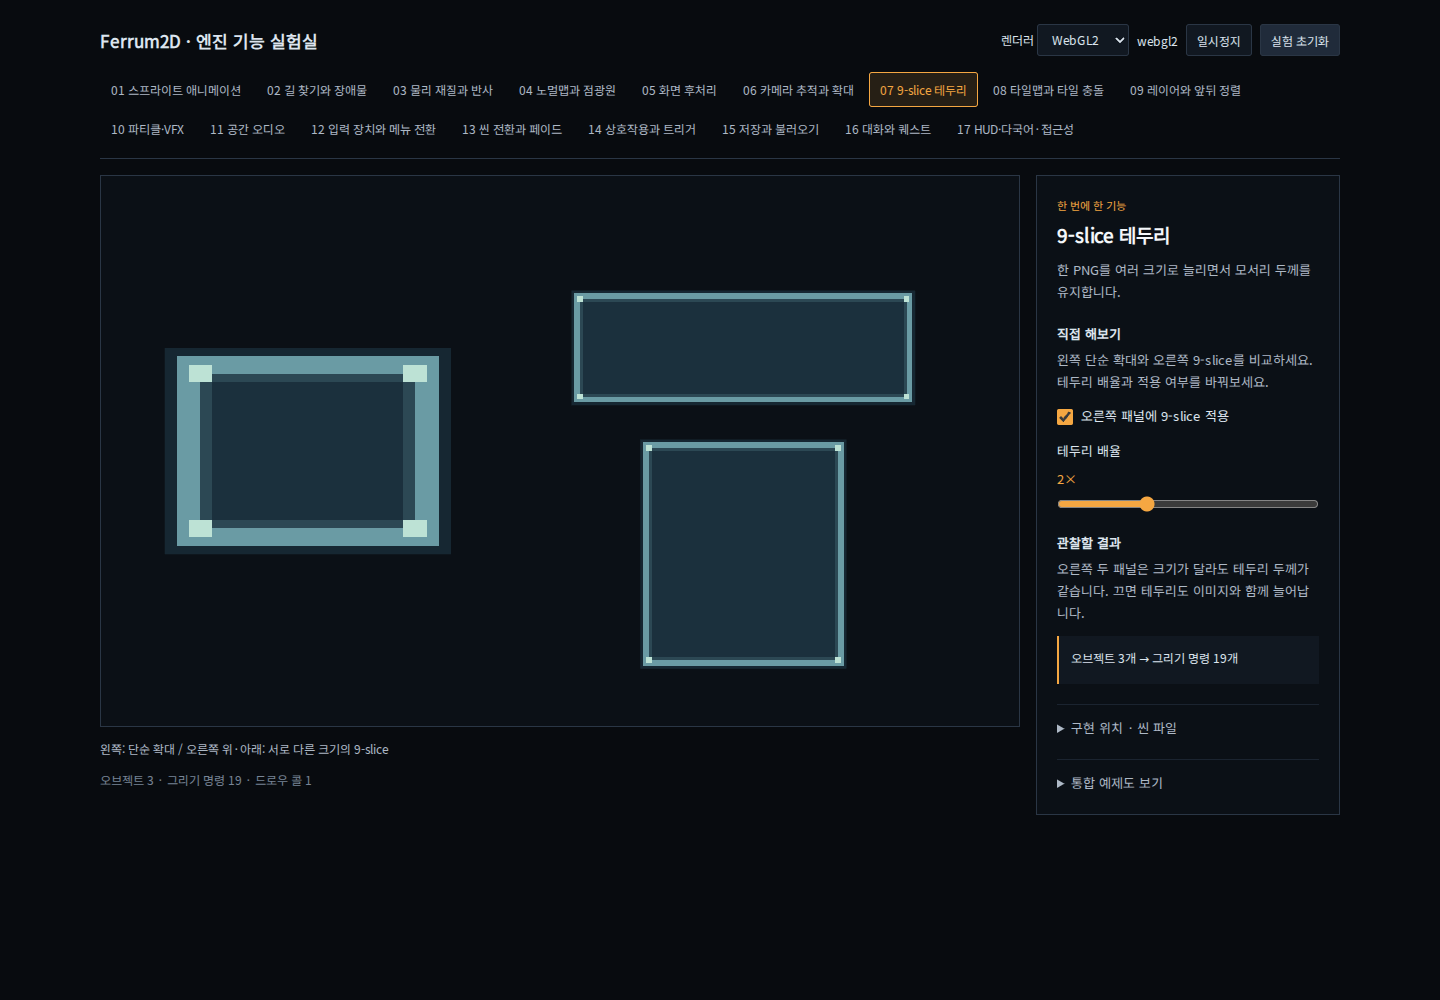
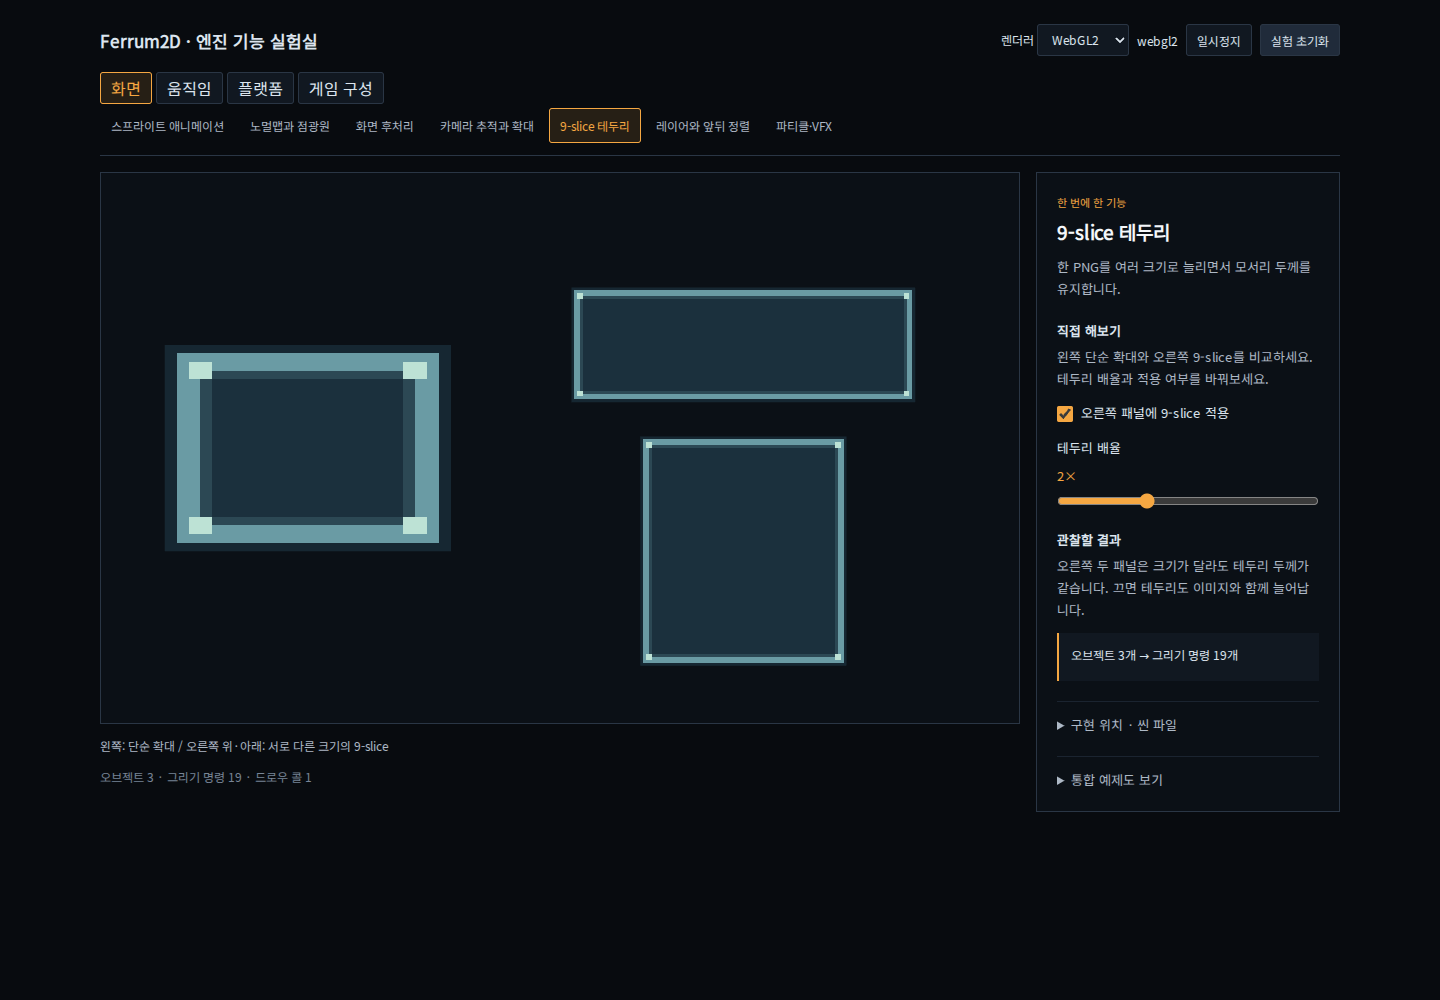
docs(examples): document twenty-one labs and recovery validation

diff --git a/docs/planning/demo-game-showcase-plan.md b/docs/planning/demo-game-showcase-plan.md
@@ -12,11 +12,9 @@ showcase로 노출할지 결정하기 위한 planning 기록이다. 현재 route
 
 | 검토 순서 | 후보 | 결정할 내용과 최소 확인 범위 |
 | ---: | --- | --- |
-| 1 | 컷신·동작 감소 설정 | 카메라/자막 순서와 reduced motion을 독립 실험으로 노출할 가치 판단. HUD·locale·dialogue/quest는 기능 실험실에 있으므로 재구현 대상에서 제외. keyboard/accessibility 검증 유지 |
-| 2 | Renderer/WebGPU 후속 노출 | Starter Runtime의 기능별 조명·노멀·카메라·후처리 실험 이후, 추가 GPU 계측·복구 노출 범위만 판단. 기존 실험의 재구현 후보로 다루지 않음 |
-| 3 | Level Streaming | 조작 가능한 demo와 report 중 선택. chunk load/unload·asset 수명·runtime 예산을 확인할 수 있어야 함 |
-| 4 | Agent Workflow | report/docs 경로의 필요성 판단. create-game → `ferrum:check` → replay/report와 consumer agent 흐름을 설명하고 실제 공개·설치 상태 구분 |
-| 5 | Visual polish | 기존 route에 필요한 screenshot/thumbnail 결정. 새 asset의 용량·라이선스·생성 방식 확인 |
+| 1 | Renderer/WebGPU 후속 노출 | Starter Runtime의 기능별 조명·노멀·카메라·후처리 실험 이후, 추가 GPU 계측·복구 노출 범위만 판단. 기존 실험의 재구현 후보로 다루지 않음 |
+| 2 | Agent Workflow | report/docs 경로의 필요성 판단. create-game → `ferrum:check` → replay/report와 consumer agent 흐름을 설명하고 실제 공개·설치 상태 구분 |
+| 3 | Visual polish | 기존 route에 필요한 screenshot/thumbnail 결정. 새 asset의 용량·라이선스·생성 방식 확인 |
 
 후보는 구현 우선순위가 아니라 제품 노출 결정을 위한 검토 순서다. 현재 smoke가 있다는 이유만으로
 새 route를 만들지 않는다.
@@ -47,6 +45,6 @@ showcase로 노출할지 결정하기 위한 planning 기록이다. 현재 route
 
 ## 다음 결정
 
-가장 먼저 컷신·동작 감소 설정을 조작형 실험으로 노출할 가치가 있는지 판단한다. 가치가 불명확하면 신규
-route 대신 Showcase Hub의 기능 coverage와 smoke/report 링크만 보강한다. Renderer/Streaming/Agent
-Workflow도 같은 기준을 순서대로 적용한다.
+가장 먼저 Renderer/WebGPU의 GPU 계측·복구를 조작형 실험으로 노출할 가치가 있는지 판단한다.
+가치가 불명확하면 신규 route 대신 Showcase Hub의 기능 coverage와 smoke/report 링크만 보강한다.
+Agent Workflow와 기존 route의 시각 보강도 같은 기준을 순서대로 적용한다.

diff --git a/docs/engine/showcase-hub.md b/docs/engine/showcase-hub.md
@@ -29,6 +29,10 @@ Pages 홈도 같은 기능 목록에서 직접 진입한다.
 | 저장과 불러오기 | `?feature=save-load` | 위치·수집 진행 저장/복원·전용 슬롯 삭제 |
 | 대화와 퀘스트 | `?feature=dialogue` | 수락/거절·소포 조건·목표 완료 |
 | HUD·다국어·접근성 | `?feature=hud` | 체력·한국어/영어·글자 크기·대비 |
+| 사격과 벽 충돌 | `?feature=projectiles` | 동일 속도 일반·벽 관통·반사 |
+| 컷신과 동작 감소 | `?feature=cutscene` | 재생·건너뛰기·자막·효과음·동작 감소 |
+| 에셋 로딩과 캐시 | `?feature=asset-loading` | fetch·세션 메모리 캐시·취소·실패 후 재시도 |
+| 레벨 스트리밍 | `?feature=streaming` | 구역 변경·고유 텍스처 해제·공통 바닥 유지 |
 
 각 실험은 기본 설정과 씬으로 초기화할 수 있다. 물리 심화는 `physics-sandbox`의 7개 시나리오,
 여러 기능을 조합한 게임은 아래 통합 예제로 이어진다. 기능 실험실 검증은 `pnpm smoke:feature-examples`다.
@@ -49,7 +53,7 @@ Pages 홈도 같은 기능 목록에서 직접 진입한다.
 
 | Demo | 사용자가 확인하는 것 | Agent가 읽는 기준 |
 | --- | --- | --- |
-| 기능 실험실 / Engine Playground | 기본 진입은 위의 17개 독립 실험. 통합 게임은 `?mode=playground`, 사격 프로필·리플레이는 `?mode=starter` | `createFerrumRuntime(...)`, Data Scene, `pnpm smoke:feature-examples`, `pnpm smoke:engine-playground` |
+| 기능 실험실 / Engine Playground | 기본 진입은 위의 21개 독립 실험. 통합 게임은 `?mode=playground`, 사격 프로필·리플레이는 `?mode=starter` | `createFerrumRuntime(...)`, Data Scene, `pnpm smoke:feature-examples`, `pnpm smoke:engine-playground` |
 | Pixel Art · 작은 빛의 정원 | 실제 이동·씨앗 수집, 노멀 조명·팔레트·후처리 비교 | `examples/pixel-art/public/scene.json`, 편집 가능한 `.pixel.json` 원본, pixel-art profile, showcase smoke |
 | Top-down Shooter | Game Spec 기반 shooter, asset/audio/tilemap/gameplay authoring | `examples/topdown-shooter/public/game.json`, Game Spec 문서, replay fixture |
 | Placement Viewer | instance 선택, transform patch, ObjectDefinition 생성, behavior binding reference | `scene-authoring.json`, placement handoff state, authoring report |

diff --git a/examples/README.md b/examples/README.md
@@ -31,12 +31,16 @@ pnpm dev:starter-runtime
 | 저장과 불러오기 | `save-load` | 위치·수집 진행 저장/복원·전용 슬롯 삭제 |
 | 대화와 퀘스트 | `dialogue` | 수락/거절·소포 조건·목표 완료 |
 | HUD·다국어·접근성 | `hud` | 체력·한국어/영어·글자 크기·대비 |
+| 사격과 벽 충돌 | `projectiles` | 일반·벽 관통·반사, 동일 속도 한 발 비교 |
+| 컷신과 동작 감소 | `cutscene` | 카메라·자막·효과음, 건너뛰기·동작 감소 |
+| 에셋 로딩과 캐시 | `asset-loading` | 실제 fetch·메모리 캐시, 취소·실패·재시도 |
+| 레벨 스트리밍 | `streaming` | 구역 로드·전용 텍스처 해제·공통 자산 유지 |
 
 ## 기존 예제에서 더 살펴보기
 
 | 디렉터리 | 주제 | 실행 |
 | --- | --- | --- |
-| [starter-runtime](starter-runtime/README.md) | 위의 독립 실험 17종. `?mode=starter`는 사격 프로필/리플레이, `?mode=playground`는 이전 통합 게임 | `pnpm dev:starter-runtime` |
+| [starter-runtime](starter-runtime/README.md) | 위의 독립 실험 21종. `?mode=starter`는 사격 프로필/리플레이, `?mode=playground`는 이전 통합 게임 | `pnpm dev:starter-runtime` |
 | [physics-sandbox](physics-sandbox/README.md) | rigid body, collider, contact/sensor, joint, CCD, platformer physics, scene query 7개 시나리오 | `pnpm dev:physics-sandbox` |
 | [platformer](platformer/README.md) | 점프·착지·단방향 발판·이동 발판. 기능 선택 후 해당 위치로 이동 | `pnpm dev:platformer` |
 | [breakout](breakout/README.md) | 반사·충돌 이벤트·파티클. 관찰 항목과 충돌 영역 표시 | `pnpm dev:breakout` |

diff --git a/docs/development/quality/screenshots/README.md b/docs/development/quality/screenshots/README.md
@@ -6,7 +6,7 @@
 
 정원·마을·Shooter 세트는 2026-11-02에 엔진 소스 커밋 `7bc6504`의 빌드를 Chromium `148.0.7778.96`에서 캡처했다.
 도트 쇼케이스는 2026-11-03에 `1b99e4f` 이후 작업 트리의 production 빌드를 같은 Chromium에서 캡처했다.
-기능 실험실은 2026-11-05에 `bf284be` 이후 작업 트리의 production 빌드를 캡처했다.
+기능 실험실은 2026-11-05에 `e4aaaba` 이후 작업 트리의 production 빌드를 캡처했다.
 
 ## 현재 이미지
 
